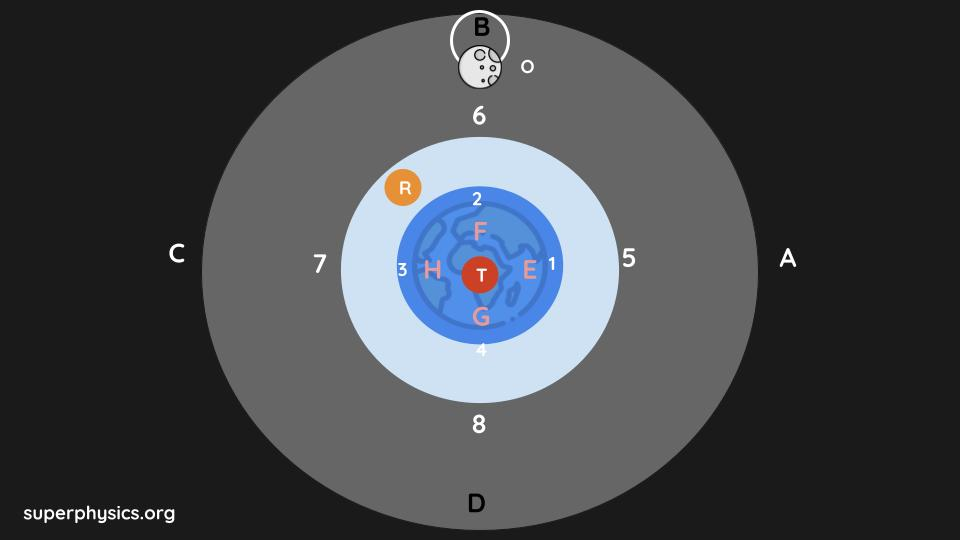
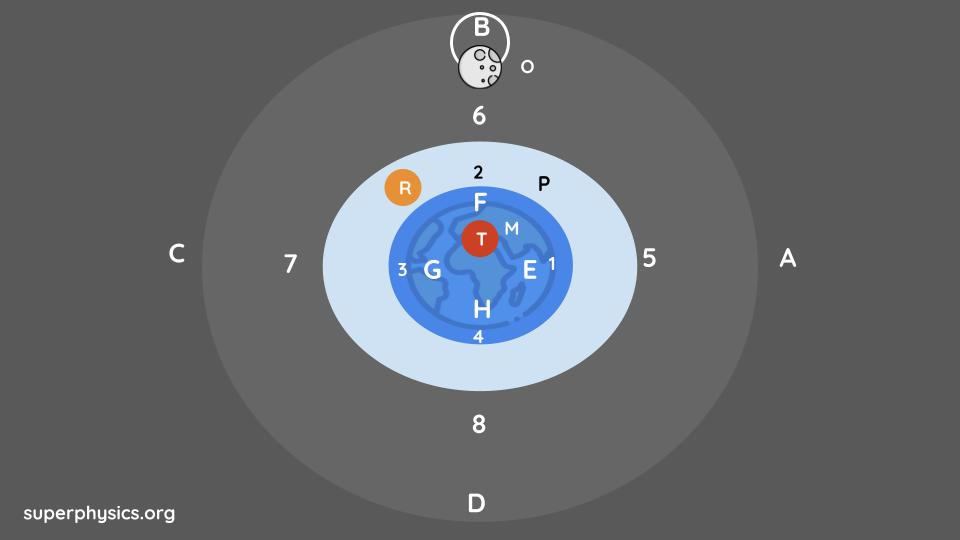
update

diff --git a/content/en/research/descartes/world/chapter-13c.md b/content/en/research/descartes/world/chapter-13c.md
@@ -2,7 +2,7 @@
 heading: "Chapter 13c"
 title: "Supermassive Black Holes as Galactic Vortices"
 weight: 29
-image: "/covers/world.jpg"
+image: "/graphics/physics/vortex.jpg"
 description: "Descartes explains Supermassive Black Holes as Galactic Vortices using the dynamics of the air-aether"
 contributors: ['Rene Descartes']
 icon: "/icons/descartes.png"
@@ -14,7 +14,7 @@ How can the air-aether between the lines `AF` and `DG` go all together towards `
 
 {{< img src="/graphics/physics/world-13hhh.jpg" alt="Black Hole" cap="" >}}
 
-This is because their motion going out of the the center `s` does not affect the air-aether on their sides [lateral from `S`].
+This is because their motion going out of the the center `S` does not affect the air-aether on their sides.
 - It only affects those that are in front of them [those farther from `S`].
 - Those in front then affect those in their front, and so on. 
 
@@ -23,7 +23,7 @@ When they move away from the center, they do not touch their neighbors that are 
 
 An example is the balls below. 
 
-{{< img src="/graphics/physics/world-13-7.jpg" alt="Balls" cap="" >}}
+{{< img src="/graphics/physics/descartes07.jpg" alt="Balls" cap="" >}}
 
 The weight of the small ball:
 - `1` does not make it exert a force of `10`
@@ -40,59 +40,101 @@ Thus, these small balls can be arranged in many other ways.
 
 The air-aether moves separately from one another. They can never be arranged like the balls above. 
 
+
+## Galaxy Arms and Accretion Disks
+
 Nonetheless, it is only in that mode [of arrangement] that the proposed difficulty manifests itself. 
 
-For one could not suppose between those of its parts that are the same distance from the center of their territory an interval so small that it would not suffice to conceive that the inclination they have to move away from that center must cause those between the lines `AF` and `DG` to advance all together toward the space E when it is void. 
+{{< img src="/graphics/physics/world-13hhh.jpg" alt="Black Hole" cap="" >}}
 
-Thus you see in Figure 9, compared with Figure 10, that the weight of the small balls 40, 30, etc. must cause them to fall all together toward the space occupied by that marked 50 as soon as the latter can leave it.	
+<!-- For one could not suppose between those of its parts that are the same distance from the center of their territory an interval so small that it would not suffice to conceive  -->
 
-The balls that are marked with the same numeral are arranged in a space narrower than that which they leave, that is, by moving closer to one another.
+Their inclination to move away from `S` causes those between the lines `AF` and `DG` to advance all together towards `E` when `E` is void. 
 
-The two balls marked 40 must fall a bit faster, and move proportionately a bit closer to one another, than the three marked 30. These three must move faster and closer to one another than the four marked 20, and so on.
 
-Figure 10 might show that the two balls 40, 40, after having fallen slightly, come to touch one another (which is why they stop without being able to fall lower). In the very same way, the parts of the aethereal air that should advance toward E will stop before having succeeded in filling the whole space we have supposed there.
+Thus, the weight of the small balls 40, 30, etc. causes them to fall all together toward the space `50` as soon as `50` can leave it.
+ <!-- you see in Figure 9, compared with Figure 10, that  -->
 
-But they cannot advance toward `E` the slightest bit without it being enough to prove perfectly that since the whole space that is there is already filled by some body (whatever it might be), the parts press continually on that body and make an effort against it as if to chase it out of its place.[59]
+{{< img src="/graphics/physics/descartes09.jpg" alt="Balls Falling" cap="" >}}
 
-Then, beyond that, I reply that, since their other motions, which continue in them while they are thus advancing toward E, do not permit them for a moment to remain arranged in the same way, those motions impede them from touching one another, or rather cause them, upon touching, immediately to separate again and thus not to cease for that reason to advance uninterruptedly toward the space E, until it is completely filled. 
+This makes them enter a narrower space and consequently to move closer to one another.
 
-The conclusion is that the force that causes them to go towards `E` is vibratory in nature.
-- It increasing or relaxing in diverse small vibrations as the parts change position. 
+<!-- The balls that are marked with the same numeral are arranged in a space narrower than that which they leave, that is, by moving  -->
+
+The two `40` balls fall a bit faster, and move proportionately a bit closer to one another, than the three `30` balls. 
+- These three must move faster and closer to one another than the four `20` balls, and so on.
+
+The two `40` balls might come to touch one another after having fallen slightly. This makes them stop falling. 
+
+ <!-- (which is why they stop without being able to fall lower).  -->
+
+In the very same way, the air-aether that advances toward `E` will stop before filling that whole space.
+- But they cannot advance toward `E` the slightest bit since the whole space is already filled by some body (whatever it might be).
+- And so they press continually on that body and make an effort against it as if to chase it out of its place.[59]
+
+<!-- without it being enough to prove perfectly that  -->
+
+
+{{< img src="/graphics/physics/vortex.jpg" alt="Supermassive Black Hole" cap="A possible explanation for the photon ring is the temporary stoppage of the air-aether particles from going out by the sheer density of the vortex. This stoppage creates friction which produces electromagnetism [fire-aether] from spacetime [air-aether]." >}}
+
+Their other motions continue in them while they thus advance towards `E`. These:
+- change their arrangement, and
+- impede them from touching one another.
+  - Rather, it causes them, upon touching, to immediately to separate again.
+
+Thus, they continue to advance uninterruptedly towards the space `E`, until it is completely filled. 
+
+**The conclusion is that the force that causes them to go towards `E` is vibratory in nature**.
+- As the particles change position, it increases or relaxes those diverse small vibrations. 
 - This is a property suited to light.
+
+
+## The Gravitational Pull of a Star or Galaxy Comes From the Differences in the Air-Aethers
 
 We have assumed that the spaces `E` and `S` and all the small angles between the air-aether are empty.
 
-Now fill them with the fire-aether. 
+Now, fill them with the fire-aether. 
 
-The fire-aether in space `E` cannot impede the air-aether between the lines `AF` and `DG` from advancing to fill it.
+{{< img src="/graphics/physics/world-13hhh.jpg" alt="Black Hole" cap="The gravitational pull of a star or galaxy comes from the smaller-air aether going back to the center to replace the larger air-aether going out that creates the circular pattern. No dark matter is needed as the cause is the difference in the size and force of the invisible spacetime particles" >}}
 
- <!-- in just the same way as they would if it were void, because, being extremely subtle and extremely agitated. They are always as ready to leave the places where they are as any other body might be to enter them. -->
+The fire-aether in space `E` cannot stop the air-aether between the lines `AF` and `DG` from advancing to fill `E` up.
+- This is because that fire-aether is already extremely subtle and agitated.
+- They are always ready to leave the places where they are in.
+ <!-- as any other body might be to enter them. -->
 
-This is why the air-aether parts of the aethreal fire that occupies the small angles between the parts of the heaven cede their place without resistance to those coming from that space E and tending to go toward the point `S`. 
+This is why the fire-aether at `E` gives up its place to the air-aether at `E` going to `S`.
+- That smaller air-aether goes to `S` to replace the larger air-aether that go out of `S`.
 
-I say toward `S` rather than toward any other place because the other bodies which, being more united and larger, have more force all tend to move away from it.
+ <!-- air-aether parts of the aethreal fire that occupies the small angles between the parts of the heaven cede their place without resistance to those coming from that space E and tending to go toward the point `S`.  -->
 
-They pass from `E` toward `S` between the air-aether that go from `S` toward `E` without either impeding the others.
+<!-- The other bodies are more united and larger and so have more force.  all tend to move away from it. -->
 
-This similar to the physical air in the sandclock `XYZ` rises from `Z` towards `X` through the sand `Y` while that sand falls towards `Z`.
+The smaller air-aether go from `E` toward `S` between the larger air-aether that go from `S` towards `E` without impeding each other.
+
+This similar to how the physical air in the sandclock `XYZ` rises from `Z` towards `X` through the sand `Y` while that sand falls towards `Z`.
+
+{{< img src="/graphics/physics/sandclock.png" alt="Sandclock" cap="In Cartesian Physics, gravity is the effort of Nature to keep the equilibrium between invisible spacetime particles. We use this in Superphysics to find the ideal ratio that will lead to stability between identities and remove their agitation and attain the natural state. We call this ratio as an elastic band. We apply this principle in Social Superphysics to keep marriages stable, and decrease the political and economic instability in societies, for example. " >}}
+
 
 The fire-aether in the space `ABCD`:
 - composes the body of the sun
 - there turns very rapidly in a circle around `S`
 
 These tend to move away from it in all directions in a straight line. 
-- All those in line `SD` together push the part of the air-aether at point `D`
+- All those in line `SD` together push the air-aether particles at point `D`
 - All those in line `SA` push that which is at point `A`, and so on.
 
 This alone can cause all the air-aether between the lines `AF` and `DG` to advance towards the space `E`, even though they might have no inclination themselves to do so.
 
-They must thus advance towards space `E` when it is occupied only by the fire-aether. 
+They thus must advance towards space `E` when it is occupied only by the fire-aether. 
 - They also tend to go there even though it is filled by some other body.
 
 Consequently, they push and make an effort against that body as if to drive it out of its place. 
 
-Thus, if it were the eye of a man that were at the point `E`, it would actually be pushed, both:
+**Thus, if a man's eye were at the point `E`, then it would actually be pushed**, both:
 - by the sun and
 - by all the air-aether between the lines `AF` and `DG`.
 
-The men of this new world will be of such a nature that, when their eyes are pushed in this manner, they will have from it a sensation very much like that which we have of light.
+Such aethereal men would see light when their eyes are pushed in this way, just as we do.
+
+<!-- The men of this new world will be of such a nature that, when their eyes are pushed in this manner, they will have from it a sensation very much like that which we have of light. -->

diff --git a/content/en/research/descartes/world/chapter-13b.md b/content/en/research/descartes/world/chapter-13b.md
@@ -9,67 +9,52 @@ icon: "/icons/descartes.png"
 ---
 
 
-<!-- 1. Straight line movement away (Law Conservation Idea)
-2. Circular movement from gravity based on sling of 2nd object
-3. Straying movement from Background influence   -->
-<!-- alone [wit
+## Solar Wind: How Do They Radiate from the Sun? 
 
-
-## Spacetime Expansion
-
-This stone is similar to the aetheral air that compose the heavens.
-<!-- - The aethereal air that are at `E` tend of their own inclination only towards `P`. -->
-
-The air-aether should be thought of as being the same as this stone.
-
-Those that are at `C` tend of their own inclination toward `G`.
-<!-- Those that are at `E` tend of their own inclination toward `P`. -->
-
-![Black Holes](/graphics/physics/world-13fff.jpg)
-
-But the resistance of the other air-aether particles above them cause them to move along the circle `EF`.
-
-This resistance in turn is opposed to their inclination to move in a straight linem, which would make them move towards `M`. 
-- This is how they go towards the places that are directly opposite the centre of their stellar gravitational territory.
-
-
-## Solar Wind
-
-The stellar air-aether is continually pushed by 2 phenomena:
+The stellar air-aether [invisible spacetime particles] is continually pushed by 2 phenomena:
 
 1. By their fellow air-aether between them and the star at the center of their gravitational territory 
-2. By the fire-aether of that star*.
+2. By the fire-aether [visible electromagnetic particles] of that star*.
 
-> *Superhysics note: This is solar wind
+> *Superhysics note: This is solar wind since it has a pushing force or energy
 
 
-They are not pushed at all by the others [not within the solar wind]. 
+They are not pushed at all by the others [beside them].
 
 For example, those at `E` are not pushed by those at `M`, `G`, `F`, `K`, or `H`, but only by all those that are between the two lines `AF` and `DG` together with the fire-aether of the sun. 
 
-![AB curve](/graphics/physics/world-13ggg.jpg)
+
+{{< img src="/graphics/physics/world-13ggg.jpg" cap="Descartes explains why the solar wind goes outwards when the spacetime particles go inwards to cause stellar gravity" alt="Solar Winds" >}}
 
 
-That is why they tend, towards `M`, `L`, `N`, and generally toward all the points which the rays or straight lines, coming from some part of the sun and passing through the place where the parts are.*
+That is why they tend not only towards `M`, but also towards:
+- `L`,
+- `N`, and
+- generally all the air-aether that are in a straight line from the points on the sun.
+
+  <!-- which the rays or straight lines, coming from some part of the sun and passing through the place where the parts are.* -->
 
 <!-- > *Translator's Note: We should modify the diagram here. `E` is a point, the apex of the visual cone `EAD`. By taking a neighborhood of points about `E`, Descartes generates a space, which he also calls `E`. The light coming to that space is the light contained in all the visual cones having a vertex in the space and a base in the sun, i.e. it is the light contained in the truncated cone FADG, where F and G should lie at the upper corners of the space, as shown in the following figure The whole argument seems motivated solely by the need to have a person's eye at E see the whole disk of the sun. -->
+
+To explain this outward motion, let us imagine the sun as a void.  
 
 
 ## Black Holes
 
 Imagine the air-aether particles at `E` were all alone and that there was absolutely no light (fire-aether) anywhere, even where the sun is.
 
+{{< img src="/graphics/physics/world-13hhh.jpg" alt="Black Hole" cap="Descartes explains why the solar wind goes outwards when the spacetime particles go inwards to cause stellar gravity" alt="Solar Winds" >}}
+
 1. If that air-aether at `E` disappeared, then the air-aether beyond circle `FEG`, say at `M`, will not fill its place since it tends to move away from it.
 
-2. The air-aether at `F` will also not fill it. This is because the air-aether at `F` also moves towards `G` with the same speed as it goes to `R`. 
+2. The air-aether at `F` will also not fill it. This is because it is moving towards `G` with the same speed as it goes to `R`.
 
 The void at `E` will move with them as long as others do not come from elsewhere to fill it. 
 
-3. The air-aether within the circle `FEG` but beyond the lines `AF` and `DG`, such as those at `H` and `K`, will also not fill it. 
+3. The air-aether within the circle `FEG` but beyond the lines `AF` and `DG`, such as those at `H` and `K`, will also not fill it.
+- This is even if their tendency to move away from `S` disposes them in some way. This is similar to how a rock's weight disposes it to fall in a straight line and roll down a mountain sideways if it cannot fall straight down. 
 
-This is even if their tendency to move away from `S` disposes them in some way. This is similar to a rock's weight disposes it to fall in a straight line and roll down a mountain sideways if it cannot fall straight down. 
-
-But such air-aether do not fill that void because of the continuous straight-line motions.
+**But such air-aether do not fill that void because of the continuous straight-line motions.**
 
 <!-- We know that a body is being pushed by other bodies when we see them actually advancing toward the place where it is in order to fill the place in the case that it is void. -->
 <!-- [56] -->
@@ -83,13 +68,13 @@ Then note in the second place also that those in that circle, to wit, at T are n
 
 <!-- Those that are below that circle but that are not contained between the lines `AF` and `DG` (such as those at `H` and `K`) also do not move in any way towards space `E` to fill it, even though the inclination they have to move away from point `S` disposes them in some way to do so (as the weight of a stone disposes it, not only to descend along a straight line in the free air, but also to roll sideways on the slope of a mountain in the case that it cannot descend any other way).	 -->
 
-Nature always chooses the shortest way out of the many ways to arrive at the same effect.[57] 
+Nature always chooses the shortest way to arrive at the same effect.[57] 
 - This is why the air-aether must travel in a straight line.
-- The continual straight-line motions impedes the air-aether from going into that space.
+- The continual straight-line motions impedes the air-aether from going into `E`. 
+<!-- that space. -->
 
 
-
-If the air-aether at `K` advanced towards `E` and filled it, then the air-aether at the Sun would take the place of `K`.
+If the air-aether at `K` advanced towards `E` and filled it, then the air-aether at the Sun `S` would take the place of `K`.
 - But this would create a new void at the circumference `ABCD` of the sun at the same time
 <!-- fill in that place  advance at the same instant towards the place which they were leaving. -->
 
@@ -100,30 +85,23 @@ But shortest way would be for the air-aether between the lines `AF` and `DG` adv
 - But by the time that air-aether reaches `E`, `E` has moved away.
 - It cannot curve to chase `E` in the same way that a falling rock falls straight down and not in a curve.  
 
-<!-- - This is similar to 
-
-Consequently, when there is nothing impeding the air-aether between the lines `AF` and `DG` from filling `E`, the others do not tend at all towards `E`, no more than a stone ever tends to fall obliquely toward the center of the earth when it can fall in a straight line. -->
+<!-- - Consequently, when there is nothing impeding the air-aether between the lines `AF` and `DG` from filling `E`, the others do not tend at all towards `E`, no more than a stone ever tends to fall obliquely toward the center of the earth when it can fall in a straight line. -->
 
 
 
-The air-aether <!-- second element --> between the lines `AF` and `DG` must advance together towards space `E` in order to fill it when it becomes void.
-
-{{< img src="/graphics/physics/world-13hhh.jpg" alt="Black Hole" >}}
-
+The air-aether between the lines `AF` and `DG` must advance together towards space `E` in order to fill it when it becomes void.
 
 Only their inclination to move away from point `S` carries them toward `E`.
 - This inclination causes those between the lines `BF` and `CG` to tend to move more directly towards `E` than those that remain between the lines `AF` and `BF`, and `DG` and `CG`.
 - These latter parts are also disposed as the others to go there.
 
-<!-- , if you take note of the effect that should follow from their motion. -->
-
 The effect is that:
-- space `E` is filled
-- a space of equal size in the circumference `ABCD` becomes void at the same time
+- **space `E` is filled**
+- **a space of equal size in the circumference `ABCD` becomes void at the same time**
 
 The air-aethers are completely alike, but not all equal.
 - It does not matter which of them fill these places.
-- The motions that can cause them to tbe unequal are irrelevant.
+- The motions that can cause them to be unequal are irrelevant.
 
 <!-- For, as regards the change of position they undergo in the other places that they were previously filling and that still remain full of them afterwards, it is not at all considerable, in as much as they must be supposed to be so equal and so completely like one another that it does not matter by which parts each of these places is filled.
 
@@ -135,8 +113,13 @@ The shortest way to fill `E` is for the air-aether at `D` to go to `E` via lines
 <!-- There is no shorter way of causing one part `E` of space to be filled while another, for example at `D`, becomes void than if all the parts of matter on the straight line `DG`, or `DE`, advance together toward `E`.  -->
 
 If the air-aethers between the lines `BF` and `CF` advanced first towards `E`, then they would cause `V` to be void. 
-- `D` would then have to fill this, creating a curved line `DVE` just to fill `E` instead of a straight line `DG`, or `DE`.
+- `D` would then have to fill this.
+  - This would create a curved line `DVE`* just to fill `E` instead of a straight line `DG`, or `DE`.
 - This is contrary to my rules of motion.
+
+
+> *Superphysics Note: This is why there are no swirls within an accretion disk of a black hole. 
+
 
  <!-- another space below them at `V`, into which those which are at `D` had to come.  -->
 

diff --git a/content/en/research/descartes/world/chapter-13.md b/content/en/research/descartes/world/chapter-13.md
@@ -115,9 +115,35 @@ If there were no sling, the stone, with the agitation that would move it along t
 From this point of view, the stone at `A` tends (makes an effort) only to move directly away from the center `D` and towards `E`.
 - It is not at all more disposed to move toward `H` than toward `I`.
 
-We can easily make a mistake and think that the stone would move either to `H` or `I`if we forgot the difference between:
+We can easily make a mistake and think that the stone would move either to `H` or `I` if we forgot the difference between:
 - the motion that it already has going away from `D` and
  <!-- [unaffected by other bodies not D] and  -->
 - its to move inherently 
 <!-- that remains with it [from D]. -->
 
+
+<!-- 1. Straight line movement away (Law Conservation Idea)
+2. Circular movement from gravity based on sling of 2nd object
+3. Straying movement from Background influence   -->
+<!-- alone [wit
+
+
+## Spacetime Expansion
+
+This stone is similar to the aetheral air that compose the heavens.
+<!-- - The aethereal air that are at `E` tend of their own inclination only towards `P`. -->
+
+The air-aether [invisible spacetime particles] should be thought of as being the same as this stone `R`.
+
+{{< img src="/graphics/physics/world-11.jpg" cap="In Cartesian Physics, the revolution of invisible spacetime particles around the Earth causes the tides and its oblate spheroid shape" alt="The gravitational territory of the Earth" >}}
+
+Those that are at `E` tend of their own inclination toward `P`.
+<!-- Those that are at `E` tend of their own inclination toward `P`. -->
+
+<!-- ![Black Holes](/graphics/physics/world-13fff.jpg) -->
+
+- But the resistance of the other air-aether particles above them cause them to move along the circle `ER`.
+  - This resistance is opposed to their inclination to move in a straight line. 
+- This resistance when alone would make them move towards `M` which is the near the center `T`.
+
+This is how they go towards the places that are directly opposite the center `T` of their gravitational territory.

diff --git a/content/en/social/economics/principles/part-2/chapter-01b.md b/content/en/social/economics/principles/part-2/chapter-01b.md
@@ -106,6 +106,22 @@ The Way (or Tao) of Heaven can be compared to the bending a bow. The part of the
 
 
 
+{{< box >}}
+## How It Works
+
+The Effort Theory of Value can be derived by asking: What is stressful to others that is not stressful to you?
+
+By focusing on that task, then you are able to produce something that relieves the stress of others at less stress for yourself. 
+
+Those others might then want to give you something for it. They will give you something that is stressful to you to make, but not stressful for them. 
+
+For example, a farmer might find it difficult to make a website to advertise his potato harvest for sale. So he asks a web developer or programmer to make his website or social media page to let people know of his harvest. 
+
+The programmer finds it difficult to grow potatoes so he gets the potatoes of the farmer as part of the payment. 
+{{< /box >}}
+
+
+
 ## Matching Interest and Action 
 
 The matching of interest and action or occupation is the key to wealth. This is why Socrates put it as the core requirement of his ideal city-state and even for life itself:

diff --git a/content/en/research/descartes/world/chapter-08b.md b/content/en/research/descartes/world/chapter-08b.md
@@ -1,9 +1,9 @@
 ---
 heading: "Chapter 8b"
-title: "The Birth of Electromgnetism from Spacetime"
+title: "The Birth of Electromagnetism from Spacetime"
 weight: 19
 image: "/covers/world.jpg"
-description: "Parts of [spacetime] the air-aether broke off and dulled, making them go faster than the air-aether"
+description: "In Cartesian Physics, Electromagnetism is created from Spacetime when spacetime particles break off"
 contributors: ['Rene Descartes']
 icon: "/icons/descartes.png"
 ---

diff --git a/content/en/research/descartes/world/chapter-09.md b/content/en/research/descartes/world/chapter-09.md
@@ -1,13 +1,12 @@
 ---
 heading: "Chapter 9"
-title: "The Origin of the Universe, Stars, and Planets"
+title: "The Origin of Matter and the Stars"
 weight: 20
 image: "/covers/world.jpg"
-description: "The parts of the matter are very diverse"
+description: "In Cartesian Physics, matter begins when the churning of spacetime particles caused some to acquire a low frequency as to become large and perceptible"
 contributors: ['Rene Descartes']
 icon: "/icons/descartes.png"
 ---
-
 
 
 
